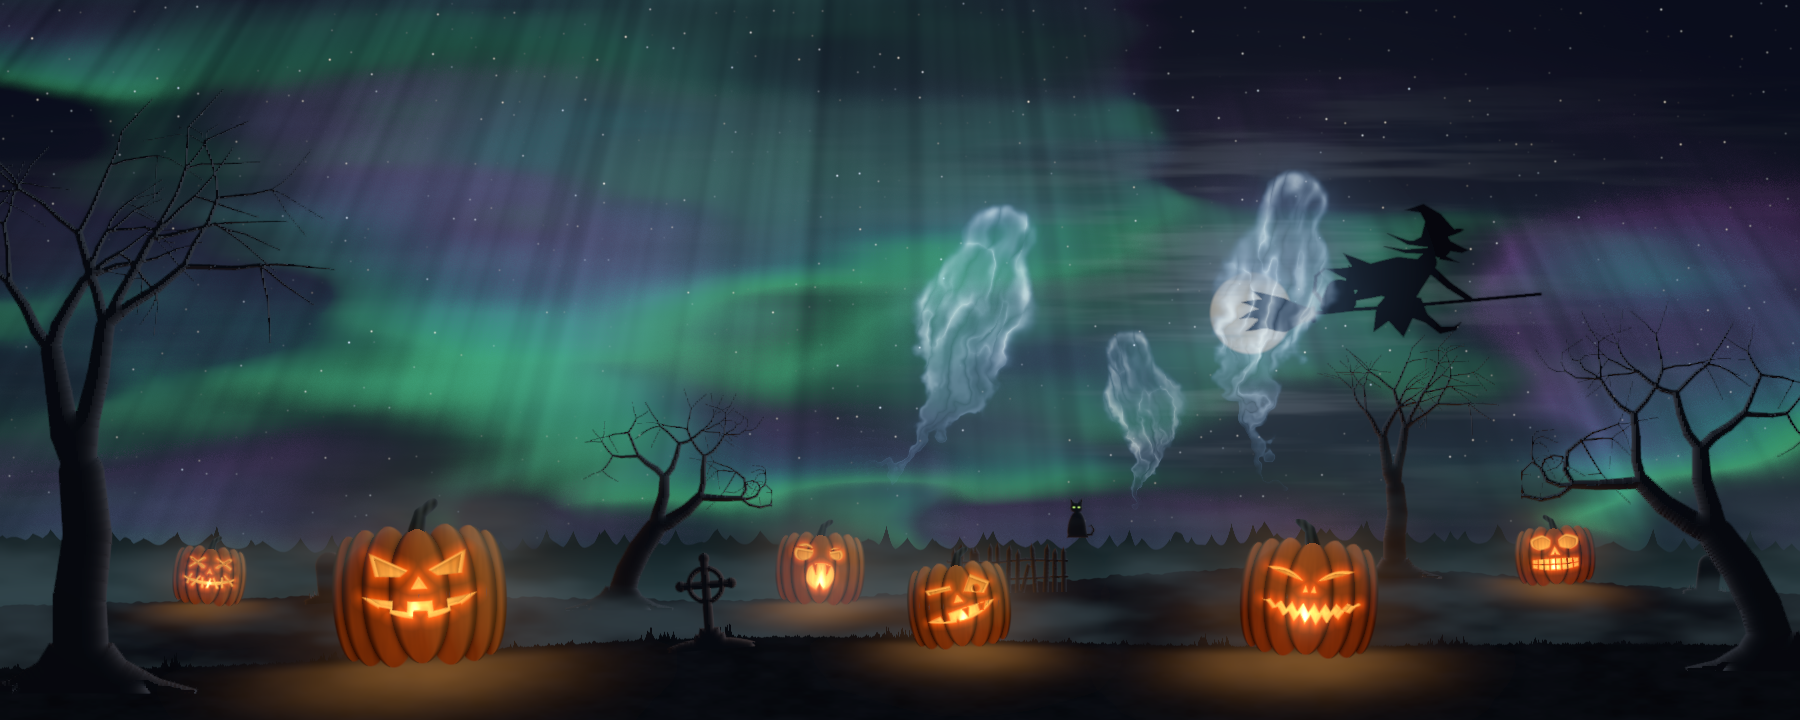
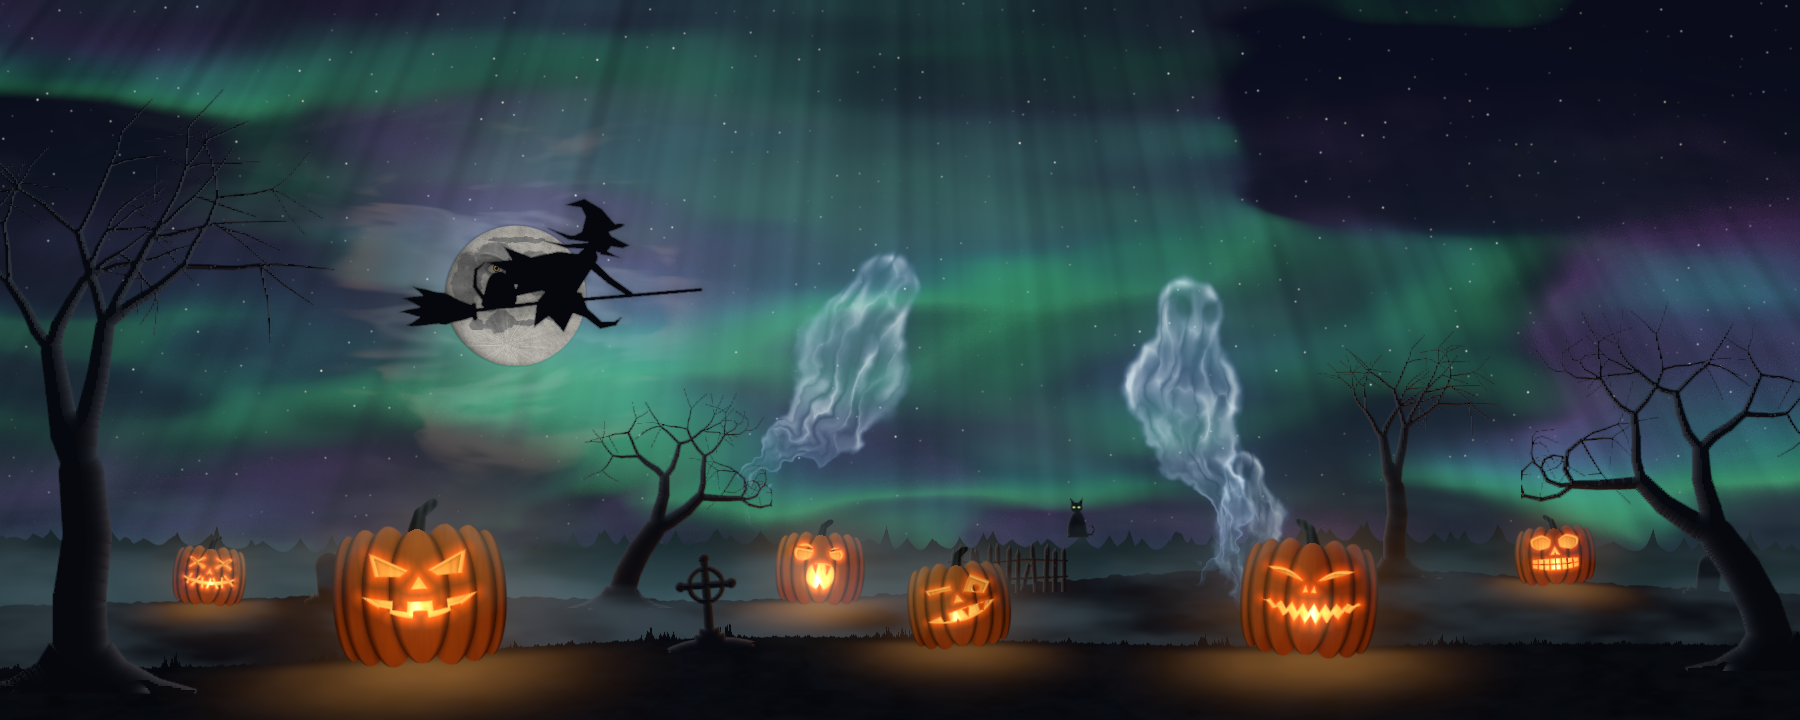
Document HermitSDR 2026.1005_005

diff --git a/CHANGELOG.md b/CHANGELOG.md
@@ -7,6 +7,27 @@ at `001` each day and increments. Earlier releases used `X.YZ` (`Y` =
 feature, `Z` = bugfix, `X` = major milestone; `2.00` was transmit). Every
 batch of improvements ships as a new version.
 
+## [2026.1005_005] — 2026-10-05
+
+### Features
+
+- **Haunted Hollow, second pass** (asked for by Damon). **The moon** is now a lunar disc rather than a pale ball: seas laid out as on the near side with ragged shores that run together, rayed craters (Tycho low on the disc, Copernicus, Kepler, Aristarchus), crater speckle, a gibbous shade, a halo, and cloud that curls and is lit from behind with a faint rust-coloured corona ring. It **moves**: it rises behind the firs on the left, crosses in about 28 minutes, sets on the right and is below the ridge for about two and a half minutes, twice an hour; a low moon is dimmer and warmer. Moonlight on branches, lanterns, fog and the ridge follows it, and the witch's course bends so that she still crosses its disc wherever it is. **A face** is worked into the surface — brows, a nose and a thin crooked mouth made of sea and shadow — with two eyes set in the largest seas. The eyes follow whichever shadow is walking (zombie, goblin or horned monster), with a short lag and small hops between its head, hands and feet; they watch the witch come and go and blink after she crosses; otherwise they wander between the lanterns, the aurora, a ghost if one is out, and you. They blink at irregular intervals, now and then one eye a hair late. **Face in the moon** in Haunted Hollow Settings turns the face off and leaves a plain moon; it is on by default and existing settings keep everything else as it was. **The walkers** are no longer two drawings cross-dissolved (which showed doubled limbs mid-stride): each is a jointed figure posed every frame, with feet that stay planted while the body moves over them. The zombie shambles — one clean step and one dragged foot, a body that surges and stalls, a head that lolls a beat behind, arms that swing on their own time and rags that follow; the goblin scuttles hunched with a sack on its shoulder, stops dead twice, stands up and looks behind it; the horned monster treads heavily with rolling shoulders and a swinging tail. Lanterns rim them with warm light as they pass, and the goblin now runs in front of the ground fog so it is no longer lost in it. GPU time with every population on screen is 0.57 ms median / 0.59 ms p95 at 1800 × 720 in three steady runs (was 0.53 ms); the release gate's run, made right after a rebuild, measured 0.97 ms median / 1.27 ms p95 — the first run after shaders are rebuilt is consistently about twice the steady figure, for a reason not yet established. Gaze, gait, the moon's arc and the blink schedule are pure functions of scene time with package tests (planted feet never slide, legs never overreach, no joint jumps, the eyes are on the walker); the offscreen smoke can now write contact sheets cropped round the moon or the walker. Judged from stills and frame strips only — see `docs/HauntedHollow.md` for what has not been watched in motion.
+- The experimental signal-aware click honours "Snap to step grid" (#192): with Snap on and a tuning step of 500 Hz or more, a carrier estimate within 350 Hz of a step multiple (and within 40% of the step) lands exactly on that multiple; one further from the grid is left as measured. Phone stations mostly sit on round frequencies and the estimate is good to a hundred hertz or two, so a 1 kHz step with Snap turns "about 14.2002" into 14.200.
+- **Adaptive NR: selectable noise estimate (Minimum / MMSE)** (#189). Receiver DSP ▸ Noise reduction (adaptive) gains a "Noise estimate" control. Minimum is the existing tracker and remains the default; with it selected the audio is bit-identical to before (pinned against a frozen copy of the previous code). MMSE is an original implementation of the speech-presence-probability noise power estimator of Gerkmann & Hendriks (IEEE TASLP, 2012), written from the published method. On synthetic fixtures it comes within 3 dB of a noise floor that jumps 10 dB in 0.38 s instead of 0.96 s (0.10 s instead of 0.42 s when the floor drops), keeps the speech component within 0.3 dB of the Minimum tracker's level, and leaves no suppression hole after a static crash. Main receiver only (SUB stays on Minimum); saved as `nrAdaptiveEstimator` and in per-radio profiles. **No listening test was done and no radio was connected** — judge it by ear with the A/B latch. Details and the full table: `docs/AdaptiveNR.md`.
+
+### Fixes
+
+- The QSO Log's Saved filters menu lists its "Remove …" entries in a section instead of a submenu (#191): the last in-window menu with a nested level.
+
+### Validation
+
+- Full suite: 2,292 tests, six skips, zero failures (690.4 s). It includes the new gaze, blink and walker-pose tests (planted feet never move, no leg overreaches, no joint jumps between frames, the witch passes within half a radius of the moon on every flight, the eyes agree with the direction to the walker), 17 noise-estimator tests with the bit-identity pin against a frozen copy of the previous reducer, and the snap arithmetic. Signed Debug and unsigned Release builds, the repository audit, the benchmark and all 51 smoke fixtures other than the Release launch smoke passed.
+- Haunted Hollow's second pass was judged from offscreen stills and 16-frame contact strips of each walk cycle (`docs/ui-reference/haunted-hollow-*.png`); it has not been watched in motion, the settings window with the new switch was not opened, and the app was not launched for it, because the operator's own instance was streaming at the time. The MMSE noise estimate has fixture measurements only: no listening test and no radio. The signal-aware snap and the QSO Log menu change are compile- and test-checked only.
+
+### Operations
+
+- Record the verified 2026.1005_004 publication and the Haunted Hollow build notes in the project notes and handoff record.
+
 ## [2026.1005_004] — 2026-10-05
 
 ### Features

diff --git a/README.md b/README.md
@@ -36,7 +36,28 @@ ANAN-7000DLE MK2 — correct sideband both ways on each, clean key/unkey,
 hardware PA interlocks, keyboard **CW keying**, and a complete
 **WSJT-X FT8 cycle** validated end to end through CAT PTT.
 
-Current version: **2026.1005_004** (see [CHANGELOG.md](CHANGELOG.md)).
+Current version: **2026.1005_005** (see [CHANGELOG.md](CHANGELOG.md)).
+
+## New in 2026.1005_005
+
+- **Haunted Hollow, second pass.** The moon is now a proper lunar disc — seas
+  with ragged shores, rayed craters, cloud lit from behind — and it moves:
+  it rises behind the firs, crosses the sky in about 28 minutes and sets,
+  twice an hour, with the witch still finding it wherever it is. Look closely
+  and it has a face, with eyes that follow the zombie, the goblin and the
+  horned monster as they pass, wander when nobody is about, and blink.
+  (Settings → *Face in the moon* turns it off.) The walkers themselves are
+  now jointed figures posed every frame: the zombie shambles with a dragged
+  foot and a lolling head, the goblin scuttles and stops to look behind it,
+  the monster rolls its shoulders — no more ghosted limbs mid-stride.
+
+  ![The moon watches](docs/ui-reference/haunted-hollow-moon-eyes-stage.png)
+- **Signal-aware click and Snap.** With *Snap to step grid* on and a step of
+  500 Hz or more, the experimental "find the voice signal's carrier" click
+  lands exactly on a round frequency when its estimate is close to one.
+- **QSO Log.** The Saved filters menu no longer hides its remove entries in a
+  submenu.
[1 lines of base64/hex data omitted]
 
 ## New in 2026.1005_004
 
